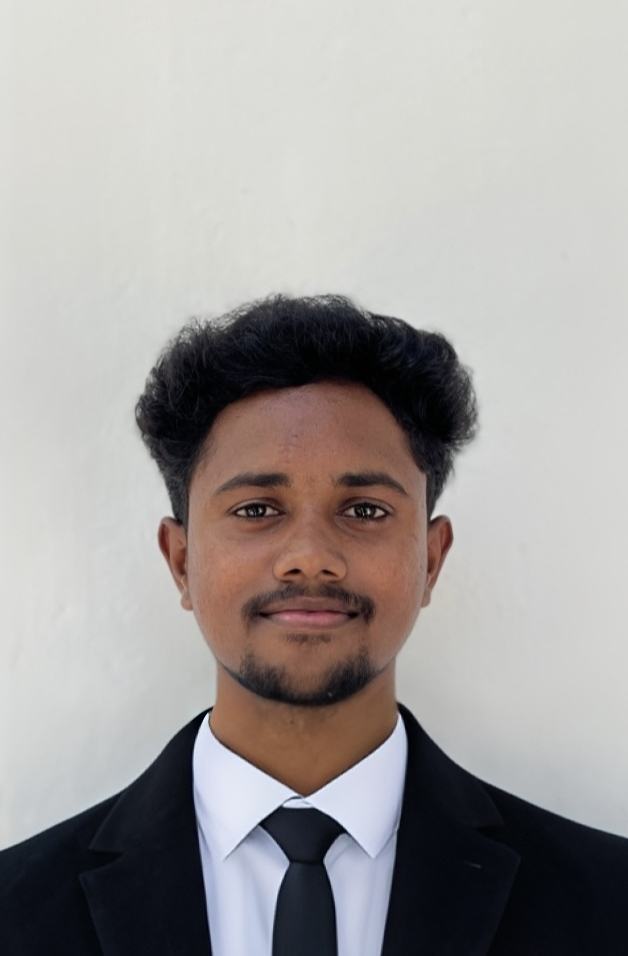
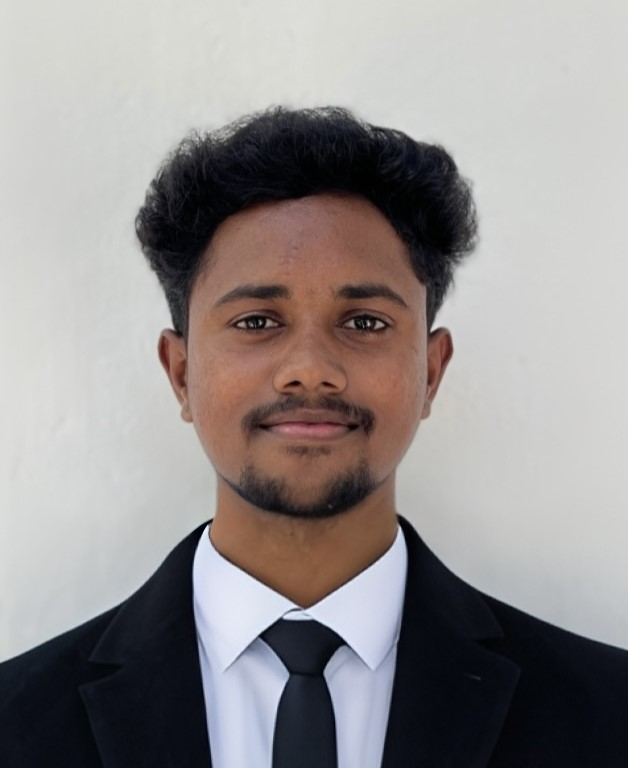
update

Changed region(s): [[0.0, 0.125, 1.0, 0.9688]]

diff --git a/src/components/TeamCarousel.tsx b/src/components/TeamCarousel.tsx
@@ -1,7 +1,6 @@
 "use client";
 
 import { useState, useCallback, useEffect } from 'react';
-import { ChevronLeft, ChevronRight } from 'lucide-react';
 import { motion, AnimatePresence } from 'framer-motion';
 import { cn } from '../lib/utils'; // Assuming this utility correctly merges class names
 import useMediaQuery from '../hooks/useMediaQuery';
@@ -33,8 +32,6 @@ export interface TeamCarouselProps {
   cardHeight?: number;
   /** Card border radius */
   cardRadius?: number;
-  /** Enable/disable navigation arrows */
-  showArrows?: boolean;
   /** Enable/disable dots indicator */
   showDots?: boolean;
   /** Enable/disable keyboard navigation */
@@ -84,16 +81,13 @@ export const TeamCarousel: React.FC<TeamCarouselProps> = ({
   cardWidth = 280,
   cardHeight = 380,
   cardRadius = 20,
-  showArrows = true,
   showDots = true,
   keyboardNavigation = true,
   touchNavigation = true,
   animationDuration = 800,
   autoPlay = 0,
   pauseOnHover = true,
-  visibleCards: visibleCardsProp = 2,
   sideCardScale: sideCardScaleProp = 0.9,
-  sideCardOpacity = 0.8,
   grayscaleEffect = true,
   className,
   cardClassName,
@@ -106,19 +100,15 @@ export const TeamCarousel: React.FC<TeamCarouselProps> = ({
   initialIndex = 0,
 }) => {
   const isLg = useMediaQuery('(min-width: 1024px)');
-  const isMd = useMediaQuery('(min-width: 768px)');
   const isMobile = useMediaQuery('(max-width: 639px)');
 
   // Determine effective dimensions based on screen size
-  const effectiveCardWidth = isLg ? cardWidth : (isMobile ? 220 : 250);
-  const effectiveCardHeight = isLg ? cardHeight : (isMobile ? 220 : 340);
+  const effectiveCardWidth = isLg ? cardWidth : (isMobile ? 220 : Math.max(250, cardWidth * 0.8));
+  const effectiveCardHeight = isLg ? cardHeight : (isMobile ? 220 : Math.max(340, cardHeight * 0.8));
 
-  // Clamp visibleCards to ensure balanced layout: max (totalMembers - 1) / 2
-  const maxVisible = Math.max(1, Math.floor((members.length - 1) / 2));
-  const effectiveVisibleCardsProp = Math.min(visibleCardsProp, maxVisible);
-
-  const visibleCards = isMd ? effectiveVisibleCardsProp : 1;
-  const sideCardScale = isLg ? sideCardScaleProp : 0.8;
+  // Show 5 cards (visibleCards = 2) if possible, otherwise scale down for mobile
+  const visibleCards = members.length >= 5 ? 2 : 1;
+  const sideCardScale = isLg ? sideCardScaleProp : 0.85;
   const [currentIndex, setCurrentIndex] = useState(initialIndex);
   const [isInView, setIsInView] = useState(false); // New state for visibility
   const [isHovered, setIsHovered] = useState(false); // New state for hover
@@ -199,40 +189,40 @@ export const TeamCarousel: React.FC<TeamCarouselProps> = ({
       case 'right-1':
         return {
           zIndex: 5,
-          opacity: sideCardOpacity,
+          opacity: 1,
           scale: sideCardScale,
-          x: effectiveCardWidth * 0.7,
-          filter: grayscaleEffect ? 'grayscale(100%)' : 'grayscale(0%)',
+          x: effectiveCardWidth * 0.8,
+          filter: 'grayscale(100%)',
           pointerEvents: 'auto',
           transition,
         };
       case 'right-2':
         return {
           zIndex: 1,
-          opacity: sideCardOpacity * 0.7,
+          opacity: 0.8,
           scale: sideCardScale * 0.9,
-          x: effectiveCardWidth * 1.4,
-          filter: grayscaleEffect ? 'grayscale(100%)' : 'grayscale(0%)',
+          x: effectiveCardWidth * 1.6,
+          filter: 'grayscale(100%)',
           pointerEvents: 'auto',
           transition,
         };
       case 'left-1':
         return {
           zIndex: 5,
-          opacity: sideCardOpacity,
+          opacity: 1,
           scale: sideCardScale,
-          x: -effectiveCardWidth * 0.7,
-          filter: grayscaleEffect ? 'grayscale(100%)' : 'grayscale(0%)',
+          x: -effectiveCardWidth * 0.8,
+          filter: 'grayscale(100%)',
           pointerEvents: 'auto',
           transition,
         };
       case 'left-2':
         return {
           zIndex: 1,
-          opacity: sideCardOpacity * 0.7,
+          opacity: 0.8,
           scale: sideCardScale * 0.9,
-          x: -effectiveCardWidth * 1.4,
-          filter: grayscaleEffect ? 'grayscale(100%)' : 'grayscale(0%)',
+          x: -effectiveCardWidth * 1.6,
+          filter: 'grayscale(100%)',
           pointerEvents: 'auto',
           transition,
         };
@@ -317,7 +307,7 @@ export const TeamCarousel: React.FC<TeamCarouselProps> = ({
   return (
     <div
       id="team-carousel-container"
-      className={cn(`flex flex-col items-center justify-center overflow-hidden relative 
+      className={cn(`flex flex-col items-center justify-center relative 
         transparent`, className)}
       style={{ background: background }}
       onMouseEnter={() => setIsHovered(true)}
@@ -345,33 +335,17 @@ export const TeamCarousel: React.FC<TeamCarouselProps> = ({
         </h2>
       )}
 
+
+
       {/* Carousel Container */}
       <div
-        className="w-full max-w-6xl relative mt-20"
+        className="w-full max-w-full relative mt-20"
         style={{
           height: effectiveCardHeight + 100,
           perspective: '1000px',
         }}
       >
-        {/* Navigation Arrows */}
-        {showArrows && (
-          <>
-            <motion.button
-              onClick={() => paginate(-1)}
-              className="absolute left-5 top-1/2 transform -translate-y-1/2 bg-black/60 hover:bg-black/80 text-white w-10 h-10 rounded-full flex items-center justify-center z-20 transition-all duration-300 hover:scale-110"
-              whileTap={{ scale: 0.9 }}
-            >
-              <ChevronLeft className="w-6 h-6" />
-            </motion.button>
-            <motion.button
-              onClick={() => paginate(1)}
-              className="absolute right-5 top-1/2 transform -translate-y-1/2 bg-black/60 hover:bg-black/80 text-white w-10 h-10 rounded-full flex items-center justify-center z-20 transition-all duration-300 hover:scale-110"
-              whileTap={{ scale: 0.9 }}
-            >
-              <ChevronRight className="w-6 h-6" />
-            </motion.button>
-          </>
-        )}
+
 
         {/* Cards Track */}
         <div
@@ -389,7 +363,7 @@ export const TeamCarousel: React.FC<TeamCarouselProps> = ({
                 <motion.div
                   key={member.id}
                   className={cn(
-                    "absolute bg-white overflow-hidden shadow-2xl cursor-pointer",
+                    "absolute bg-black overflow-hidden shadow-2xl cursor-pointer",
                     cardClassName
                   )}
                   style={{

diff --git a/src/pages/About.tsx b/src/pages/About.tsx
@@ -46,24 +46,24 @@ export function About() {
       name: 'Abdur',
       role: 'Founder, Gen AI Specialist, IoT Developer',
       image: abdur,
-      imageScale: 1.15,
-      imageOffset: { x: 50, y: 15 },
+      imageScale: 1.0,
+      imageOffset: { x: 50, y: 40 },
     },
     {
       id: '2',
       name: 'Afsal',
       role: 'Co-founder, CEO',
       image: afsal,
-      imageScale: 0.95,
-      imageOffset: { x: 50, y: 10 },
+      imageScale: 1.0,
+      imageOffset: { x: 50, y: 15 },
     },
     {
       id: '3',
       name: 'Allen',
       role: 'Co-founder, MD',
       image: allen,
-      imageScale: 1.8,
-      imageOffset: { x: 50, y: 15 },
+      imageScale: 1.0,
+      imageOffset: { x: 50, y: 10 },
     },
 
     {
@@ -71,7 +71,7 @@ export function About() {
       name: 'Mafaz',
       role: 'Co-founder, AI Specialist & Prompt Engineer',
       image: mafaz,
-      imageScale: 1.2,
+      imageScale: 1.0,
       imageOffset: { x: 50, y: 15 },
     },
     {
@@ -79,15 +79,15 @@ export function About() {
       name: 'Safiq',
       role: 'Co-founder, Creative Designer & Developer',
       image: safiq,
-      imageScale: 1.1,
-      imageOffset: { x: 50, y: 10 },
+      imageScale: 1.0,
+      imageOffset: { x: 50, y: 45 },
     },
     {
       id: '7',
       name: 'JayaBalaji',
       role: 'Co-founder, HR, Senior developer',
       image: jayabalaji,
-      imageScale: 1.2,
+      imageScale: 1.0,
       imageOffset: { x: 50, y: 15 },
     },
   ];
@@ -168,7 +168,7 @@ export function About() {
               initial={{ opacity: 0, y: 40 }}
               whileInView={{ opacity: 1, y: 0 }}
               viewport={{ once: true }}
-              className="mb-20 w-full flex flex-col items-center"
+              className="mb-20 w-screen relative left-1/2 right-1/2 -ml-[50vw] -mr-[50vw] flex flex-col items-center"
             >
               <h2 className="text-4xl font-bold text-center text-white mb-2">
                 Our Team
@@ -180,7 +180,7 @@ export function About() {
                 autoPlay={2000}
                 animationDuration={800}
                 infoTextColor="white"
-                visibleCards={2}
+                cardWidth={340}
               />
             </motion.div>
 
